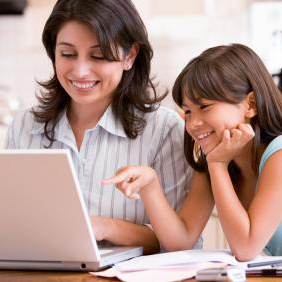
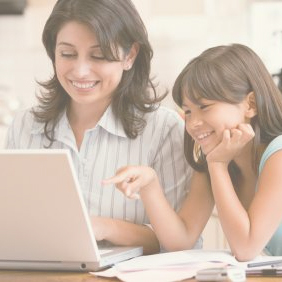
Adapting design to content in engage-for teachers section

diff --git a/engage.html b/engage.html
@@ -89,7 +89,7 @@
     </div>  
 
     <!-- What is Engage -->
-    <section id="sec1" class="engage-section overlay-green">
+    <section id="sec1" class="overlay-green">
     <div id="tf-engage" class="text-center">
             <div class="content col-md-10 col-md-offset-1">
                 <h1><img src="img/logo.png" width="300"></h1>
@@ -120,43 +120,129 @@
     <!-- For Teachers -->
     <section id="sec3" class="engage-section overlay-white">
         <div class="content col-md-10 col-md-offset-1">
-            <h1 class="text-center"><strong>FOR TEACHERS</strong></h1>
+            <h2 class="text-center"><strong>FOR TEACHERS</strong></h2>
             <br>
-            <h3>How does it work?</h3>
-            <p>Engage is mapped onto the New Curriculum, covering every SPAG topic that teachers are required to cover. It uses appropriate music videos, overlaid with automatically generated, graded and updated exercises that address the required topics in grammar and spelling. Our educational platform is web-based, so children will only need access to a computer to use it, although it can also be accessed using tablets or smartphones. All videos are pre-screened for bad language and slang, as well as for visual suitability to ensure that all material is appropriate for schools.</p>
+            <div id="buttons" class="row text-center">
+                <div class="col-sm-4"><img class="selectable btn btn-link" src="img/teachers/works.png" width="130" onclick="openBox(1);"><h3>How does it work?</h3></div>
+                <div class="col-sm-4"><img class="selectable btn btn-link" src="img/teachers/built1.png" width="130" onclick="openBox(2);"><h3>How we built Engage</h3></div>
+                <div class="col-sm-4"><img class="selectable btn btn-link" src="img/teachers/help1.png" width="130" onclick="openBox(3);"><h3>How will Engage help you?</h3></div>
+            </div>
+            <section id="boxes">
+                <div id="box-1" class="box">
+                    <h3 class="text-center">- How does it work? -</h3>
+                    <br>
+                    <p class="text-center">Engage is mapped onto the New Curriculum, covering every SPAG topic that teachers are required to cover. It uses appropriate music videos, overlaid with automatically generated, graded and updated exercises that address the required topics in grammar and spelling. Our educational platform is web-based, so children will only need access to a computer to use it, although it can also be accessed using tablets or smartphones. All videos are pre-screened for bad language and slang, as well as for visual suitability to ensure that all material is appropriate for schools.</p>
+                    <br>
+                    <div id="myCarousel" class="carousel slide" data-ride="carousel">
 
-            <h3>How we built Engage</h3>
-            <p>We began by winning funding support to design Engage from the government-backed SBRI (https://sbri.innovateuk.org/about-sbri) as part of their Learning: Design For Impact initiative, which seeks to bring together innovation in UK research and technology with schools to impact on key social issues. When we first decided to create Engage, we knew that the process had to start with the people who matter - teachers and students - and that they needed to be the ones telling us what they needed. We also wanted to gain a thorough understanding of how schools decide which apps they want to use and how they feel best supported by companies when they have particular customer service needs.</p>
+                      <!-- Wrapper for slides -->
+                      <div class="carousel-inner" role="listbox">
+                        <div class="item active">
+                          <img src="img/carousel/eng1.png">
+                        </div>
 
-            <p>We therefore began by interviewing Head Teachers, literacy coordinators and teaching staff in 6 schools around the UK with different populations, and we asked them to partner with us in creating something meaningful and useful. Some schools had populations of predominantly EAL children and others had predominantly white British pupils. Schools also varied greatly in the levels of social deprivation that their pupils experienced, and we made sure that we worked with some schools in areas of extreme social deprivation because we wanted to create something meaningful to help these schools and their pupils.</p>
+                        <div class="item">
+                          <img src="img/carousel/eng2.png">
+                        </div>
 
-            <p>We asked the Head Teachers and staff in detail about the problems they encountered, their frustrations and what they really needed to make their lives easier and to help their pupils learn. We asked them to tell us what their ideal app would do for them and how it would help them in their day to day work.</p>
+                        <div class="item">
+                          <img src="img/carousel/eng3.png">
+                        </div>
 
-            <p>Our lead researcher then looked at all the transcripts and elicited common themes, to come up with a list of problems and wishes for ideal teaching aids, as specified by teaching staff. From this list, we began to design and build Engage.</p>
+                        <div class="item">
+                          <img src="img/carousel/eng4.png">
+                        </div>
 
-            <p>When we had designed an initial version Engage, we went back to the schools to check that we had understood what they needed and designed something to meet those needs.</p>
+                        <div class="item">
+                          <img src="img/carousel/eng5.png">
+                        </div>
 
-            <p>We then built the first working version of Engage and tested it with our partner schools in a pilot trial to see if Year 5 and Year 6 children enjoyed using it and whether the teachers experienced Engage as a useful teaching aid. We interviewed the staff again, gaining qualitative feedback from them about the positives and negatives, and we asked them to report back what the children had said about it.</p>
+                        <div class="item">
+                          <img src="img/carousel/eng6.png">
+                        </div>
 
-            <h3>How will Engage help you?</h3>
-            <p>Engage is designed to help teachers in several ways:
-                <ul>
-                    <li>We have a huge database of appropriate music video content that can be used to teach children the SPAG topics that you need to cover. Therefore, you don’t need to constantly search for interesting content to use as a teaching aid.</li>
-                    <li>Different songs are chosen and all exercises are automatically created by us, so you don’t have to spend valuable time creating exercises.</li>
-                    <li>We’ve already done the work of mapping all the required SPAG topics in the New Curriculum into our system, so Engage covers everything you need to teach.</li>
-                    <li>Engage puts the fun into learning for children, creating games and exercises that help children to learn topics and the relevant grammatical vocabulary that they weill need for their SAT tests. Language is taught in context, with a focus on helping children to apply their knowledge, and all while having fun.</li>
-                    <li>Because exercise creation is automatic, you can allocate different exercises to different individuals, groups or classes, ensuring that every child can easily learn at their own pace and that it’s no longer a problem to have children at different levels within one class group.</li>
-                    <li>You can see how children are progressing (both as an overview and for specific games/topics) and also how much they engage with the games, as Engage provides you with detailed but easy-to-read data analytics.</li>
-                    <li>Engage can therefore help with assessment as it provides measurable evidence of improvement</li>
-                </ul>
-            </p>
+                        <div class="item">
+                          <img src="img/carousel/eng7.png">
+                        </div>
+                      </div>
+
+                      <!-- Left and right controls -->
+                      <a class="left carousel-control" href="#myCarousel" role="button" data-slide="prev">
+                        <span class="glyphicon glyphicon-chevron-left" aria-hidden="true"></span>
+                        <span class="sr-only">Previous</span>
+                      </a>
+                      <a class="right carousel-control" href="#myCarousel" role="button" data-slide="next">
+                        <span class="glyphicon glyphicon-chevron-right" aria-hidden="true"></span>
+                        <span class="sr-only">Next</span>
+                      </a>
+                    </div>
+                    <div class="row">
+                        <div class="col-sm-2"></div>
+                        <div class="col-sm-2"></div>
+                        <div class="col-sm-2 text-center"><a href="#sec3"><img class="selectable btn btn-link" src="img/teachers/built1.png" width="70" onclick="openBox(2);"></a></div>
+                        <div class="col-sm-2 text-center"><a href="#sec3"><img class="selectable btn btn-link" src="img/teachers/help1.png" width="70" onclick="openBox(3);"></a></div>
+                        <div class="col-sm-2"></div>
+                        <div class="col-sm-2"></div>
+                    </div>
+                </div>
+
+                <div id="box-2" class="box">
+                    <h3 class="text-center">- How we built Engage -</h3>
+                    <br>
+                    <p>We began by winning funding support to design Engage from the <a href="https://sbri.innovateuk.org/about-sbri">government-backed SBRI</a> as part of their Learning: Design For Impact initiative, which seeks to bring together innovation in UK research and technology with schools to impact on key social issues. When we first decided to create Engage, we knew that the process had to start with the people who matter - teachers and students - and that they needed to be the ones telling us what they needed. We also wanted to gain a thorough understanding of how schools decide which apps they want to use and how they feel best supported by companies when they have particular customer service needs.</p>
+
+                    <p>We therefore began by interviewing Head Teachers, literacy coordinators and teaching staff in 6 schools around the UK with different populations, and we asked them to partner with us in creating something meaningful and useful. Some schools had populations of predominantly EAL children and others had predominantly white British pupils. Schools also varied greatly in the levels of social deprivation that their pupils experienced, and we made sure that we worked with some schools in areas of extreme social deprivation because we wanted to create something meaningful to help these schools and their pupils.</p>
+
+                    <p>We asked the Head Teachers and staff in detail about the problems they encountered, their frustrations and what they really needed to make their lives easier and to help their pupils learn. We asked them to tell us what their ideal app would do for them and how it would help them in their day to day work.</p>
+
+                    <p>Our lead researcher then looked at all the transcripts and elicited common themes, to come up with a list of problems and wishes for ideal teaching aids, as specified by teaching staff. From this list, we began to design and build Engage.</p>
+
+                    <p>When we had designed an initial version Engage, we went back to the schools to check that we had understood what they needed and designed something to meet those needs.</p>
+
+                    <p>We then built the first working version of Engage and tested it with our partner schools in a pilot trial to see if Year 5 and Year 6 children enjoyed using it and whether the teachers experienced Engage as a useful teaching aid. We interviewed the staff again, gaining qualitative feedback from them about the positives and negatives, and we asked them to report back what the children had said about it.</p>
+                    <br>
+                    <div class="row">
+                        <div class="col-sm-2"></div>
+                        <div class="col-sm-2"></div>
+                        <div class="col-sm-2 text-center"><a href="#sec3"><img class="selectable btn btn-link" src="img/teachers/works.png" width="70" onclick="openBox(1);"></a></div>
+                        <div class="col-sm-2 text-center"><a href="#sec3"><img class="selectable btn btn-link" src="img/teachers/help1.png" width="70" onclick="openBox(3);"></a></div>
+                        <div class="col-sm-2"></div>
+                        <div class="col-sm-2"></div>
+                    </div>
+                </div>
+
+                <div id="box-3" class="box">
+                    <h3 class="text-center">- How will Engage help you? -</h3>
+                    <br>
+                    <p>Engage is designed to help teachers in several ways:
+                        <ul>
+                            <li>We have a huge database of appropriate music video content that can be used to teach children the SPAG topics that you need to cover. Therefore, you don’t need to constantly search for interesting content to use as a teaching aid.</li>
+                            <li>Different songs are chosen and all exercises are automatically created by us, so you don’t have to spend valuable time creating exercises.</li>
+                            <li>We’ve already done the work of mapping all the required SPAG topics in the New Curriculum into our system, so Engage covers everything you need to teach.</li>
+                            <li>Engage puts the fun into learning for children, creating games and exercises that help children to learn topics and the relevant grammatical vocabulary that they weill need for their SAT tests. Language is taught in context, with a focus on helping children to apply their knowledge, and all while having fun.</li>
+                            <li>Because exercise creation is automatic, you can allocate different exercises to different individuals, groups or classes, ensuring that every child can easily learn at their own pace and that it’s no longer a problem to have children at different levels within one class group.</li>
+                            <li>You can see how children are progressing (both as an overview and for specific games/topics) and also how much they engage with the games, as Engage provides you with detailed but easy-to-read data analytics.</li>
+                            <li>Engage can therefore help with assessment as it provides measurable evidence of improvement</li>
+                        </ul>
+                    </p>
+                    <br>
+                    <div class="row">
+                        <div class="col-sm-2"></div>
+                        <div class="col-sm-2"></div>
+                        <div class="col-sm-2 text-center"><a href="#sec3"><img class="selectable btn btn-link" src="img/teachers/works.png" width="70" onclick="openBox(1);"></a></div>
+                        <div class="col-sm-2 text-center"><a href="#sec3"><img class="selectable btn btn-link" src="img/teachers/built1.png" width="70" onclick="openBox(2);"></a></div>
+                        <div class="col-sm-2"></div>
+                        <div class="col-sm-2"></div>
+                    </div>
+                </div>
+            </section>
         </div>
     </section>
 
     <!-- For Students -->
     <section id="sec4" class="engage-section overlay-white">
         <div class="content col-md-10 col-md-offset-1">
-            <h1 class="text-center"><strong>Student Profiles</strong></h1>
+            <h2 class="text-center"><strong>Student Profiles</strong></h2>
             <br>
             <p>We have understood from our schools partners, that different groups of children have different needs. We’ve put together a couple of profiles of pupils who can really benefit from Engage.</p>
 
@@ -174,7 +260,7 @@
     <section id="sec5" class="engage-section overlay-white">
        <div id="tf-science">
             <div class="content col-md-10 col-md-offset-1">
-                <h1 class="text-center"><strong>SCIENCE</strong></h1>
+                <h2 class="text-center"><strong>SCIENCE</strong></h2>
                 <p>Engage is based on robust and comprehensive pedagogical research. From the literature, it is clear that language learners enjoy listening to songs and find it useful but that it can be difficult to identify specific benefits. Engage is based on sound pedagogical research that proves the significant and enduring impact of music and same language subtitling on literacy outcomes.</p>
 
                 <p>We based Engage on the research carried out in India by Planet Read and sponsored by the Clinton Foundation. They conducted several studies over a 5 year period, using a sample size of 13,000 illiterate children and adults. They found that the number of children who could read to a good standard more than doubled after just 6 months’ exposure to same language subtitling of music videos. This exposure was simply watching a popular music programme on television for just 1 hour a week.</p>
@@ -187,7 +273,7 @@
     <section id="sec6" class="engage-section overlay-white">
        <div id="tf-science">
             <div class="content col-md-10 col-md-offset-1">
-                <h1 class="text-center"><strong>Trialling feedback</strong></h1>
+                <h2 class="text-center"><strong>Trialling feedback</strong></h2>
                 <p>We’ve had incredible feedback from teachers and pupils about Engage. Here are some of the things they’ve told us:</p>
 
                 <h3>Teacher 1, Bolton</h3>
@@ -219,7 +305,7 @@
     <section id="sec7" class="engage-section overlay-white">
        <div id="tf-science">
             <div class="content col-md-10 col-md-offset-1">
-                <h1 class="text-center"><strong>Get Involved</strong></h1>
+                <h2 class="text-center"><strong>Get Involved</strong></h2>
                 <p>We want to reach 1000 children and prove that Engage can help them. Do you teach children in Years 5, 6, 7 or 8? Would you like to be one of our partner schools? Would you be interested in helping students with weaker reading (both native and non-native students)?</p>
 
                 <p>Then get in touch and become one of our schools partners! We are planning a longer and more comprehensive trial in the future to test Engage’s efficacy; we hope to prove that it can significantly increase pupils’ progress compared to anything else out there. We’ll continue to improve the design with your input as we go along, so as one of our partners, you will help us to tailor make Engage even more specifically to address your needs.</p>
@@ -267,5 +353,5 @@
     ================================================== -->
     <script type="text/javascript" src="js/main.js"></script>
 
-  </body>
+</body>
 </html>

diff --git a/js/main.js b/js/main.js
@@ -126,3 +126,63 @@ function main() {
 
 }
 main();
+
+var openBox = function(id) {
+
+  var box1 = document.getElementById("box-1");
+  var box2 = document.getElementById("box-2");
+  var box3 = document.getElementById("box-3");
+
+  var buttons = document.getElementById("buttons")
+  var images = buttons.getElementsByTagName('img');
+  var titles = buttons.getElementsByTagName('h3');
+  var lines = buttons.getElementsByTagName('hr');
+
+  var sec3 = document.getElementById("sec3");
+
+  if (id == 1) {
+    box1.style.display = "block";
+    box2.style.display = "none";
+    box3.style.display = "none";
+    titles[0].style.color = "#0DB575";
+    titles[1].style.color = "#5A5A5A";
+    titles[2].style.color = "#5A5A5A";
+    images[0].style.opacity = "1";
+    images[1].style.opacity = "0.5";
+    images[2].style.opacity = "0.5";
+    sec3.style.height = "1000px";
+  } else if (id == 2) {
+    box1.style.display = "none";
+    box2.style.display = "block";
+    box3.style.display = "none";
+    titles[0].style.color = "#5A5A5A";
+    titles[1].style.color = "#0DB575";
+    titles[2].style.color = "#5A5A5A";
+    images[0].style.opacity = "0.5";
+    images[1].style.opacity = "1";
+    images[2].style.opacity = "0.5";
+    sec3.style.height = "1000px";
+  } else {
+    box1.style.display = "none";
+    box2.style.display = "none";
+    box3.style.display = "block";
+    titles[0].style.color = "#5A5A5A";
+    titles[1].style.color = "#5A5A5A";
+    titles[2].style.color = "#0DB575";
+    images[0].style.opacity = "0.5";
+    images[1].style.opacity = "0.5";
+    images[2].style.opacity = "1";
+    sec3.style.height = "800px";
+  }
+
+  buttons.style.marginTop = "0";
+  images[0].width = "70";
+  images[1].width = "70";
+  images[2].width = "70";
+  titles[0].style.fontSize = "14px";
+  titles[0].style.marginTop = "0";
+  titles[1].style.fontSize = "14px";
+  titles[1].style.marginTop = "0";
+  titles[2].style.fontSize = "14px";
+  titles[2].style.marginTop = "0";
+}

diff --git a/css/style.css b/css/style.css
@@ -144,19 +144,21 @@ font-weight: 900;
 	padding-bottom: 25px;
 }
 .overlay-white{
-	background: rgba(255,255,255,0.5);
-	height: auto;
+	background: rgba(255,255,255,0.7);
 	background-attachment: fixed;
 	padding-bottom: 25px;
 }
-.overlay-white h1{
+.overlay-white h2{
 	color: #0DB575;
+}
+.engage-section .content{
+	padding-top: 3%;
 }
 #sec1{
 	min-height: 1000px;
 }
 #sec3{
-	min-height: 1200px;
+	height: 600px;
 }
 #sec4{
 	min-height: 400px;
@@ -173,19 +175,56 @@ font-weight: 900;
 .resizing-img{
 	width: 100%;
 }
-.engage-section{
-	heigth: 900px;
-}
 #tf-engage{
 	color: #fff;
 }
 #tf-engage p{
 	font-size: 16px;
 }
-ul {
+ul{
 	font-size: 16px;
     list-style-position: inside;
     margin-left: 25px; 
+}
+#buttons{
+	margin-top: 75px;
+}
+#box-1{
+	display:none;
+}
+#box-2{
+	display:none;
+}
+#box-3{
+	display:none;
+}
+.box{
+	border: 1px solid #CCC;
+    box-shadow: 0 1px 5px #CCC;
+    border-radius: 5px;
+    margin: 25px auto;
+    overflow: hidden;
+    font-size: 16px;
+    padding: 10px 30px;
+    line-height: 150%;
+}
+.box h3{
+	color: #0DB575;
+	font-size: 25px;
+}
+.selectable{
+	opacity: 0.5;
+}
+.selectable:hover{
+	opacity: 1;
+}
+#myCarousel{
+	width: 70%;
+	left: 15%;
+	margin-bottom: 30px;
+}
+.small-link{
+	float: none;
 }
 #tf-studies{
 	background-image: url("../img/07.jpg");

diff --git a/css/bootstrap.css b/css/bootstrap.css
@@ -5664,7 +5664,7 @@ a.list-group-item-danger.active:focus {
   padding: 10px 25px 10px 0px;
   margin-top: 125px;
   margin-bottom: 20px;
-  background: rgba(255,255,255,0.7) url("../img/background_side_nav.png") no-repeat 98% 47%;
+  background: rgba(255,255,255,0.5) url("../img/background_side_nav.png") no-repeat 98% 47%;
   border: 1px solid #e3e3e3;
   border-radius: 10px;
   font-weight: bold;
